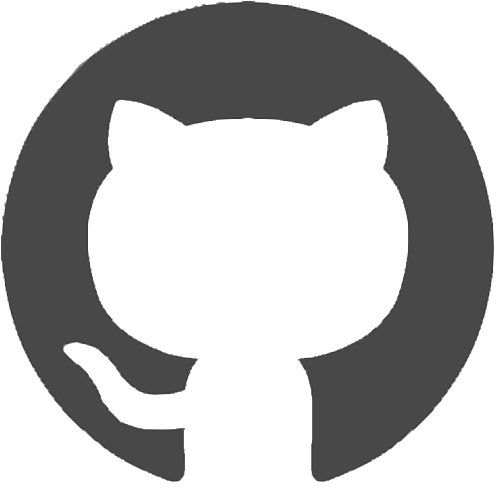
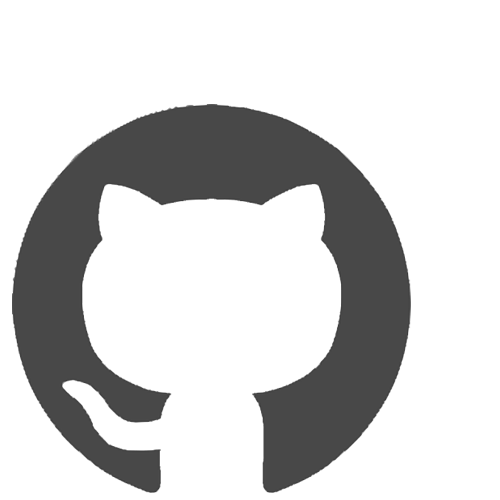
final product

diff --git a/app/index.html b/app/index.html
@@ -13,10 +13,12 @@
   </head>
   <body>
     <div>
-      <input id="token" name="token" placeholder "aae99bc78b5b01f67d4fd2db06f4df87b0d02c15"
-      value= "aae99bc78b5b01f67d4fd2db06f4df87b0d02c15" />
-      <input id="url" name="url" placeholder "https://api.github.com/repos/shanwynn/my-proj/issues"
-      value= "https://api.github.com/repos/shanwynn/my-proj/issues" />
+      <div class="token-wrapper">
+        <input id="token" name="token" placeholder "aae99bc78b5b01f67d4fd2db06f4df87b0d02c15"
+        value= "aae99bc78b5b01f67d4fd2db06f4df87b0d02c15" />
+        <input id="url" name="url" placeholder "https://api.github.com/repos/shanwynn/my-proj/issues"
+        value= "https://api.github.com/repos/shanwynn/my-proj/issues" />
+      </div>
       <h1>You have <span id="iCount"></span> issues.</h1>
       <div id="issues"></div>
       <script id="iTemplate" type="text/template">

diff --git a/app/styles/main.scss b/app/styles/main.scss
@@ -18,6 +18,7 @@ body {
   background-image: url('../images/octocatfaded.png');
   background-repeat: no-repeat;
   background-position: right center;
+  background-size: 30%;
   font-family: "Helvetica Neue", Helvetica, Arial, sans-serif;
   color: #333;
 }
@@ -65,4 +66,8 @@ li {
 
 #token, #url {
   margin: 5%;
+}
+
+.token-wrapper {
+  margin-left: 16.5%;
 }
